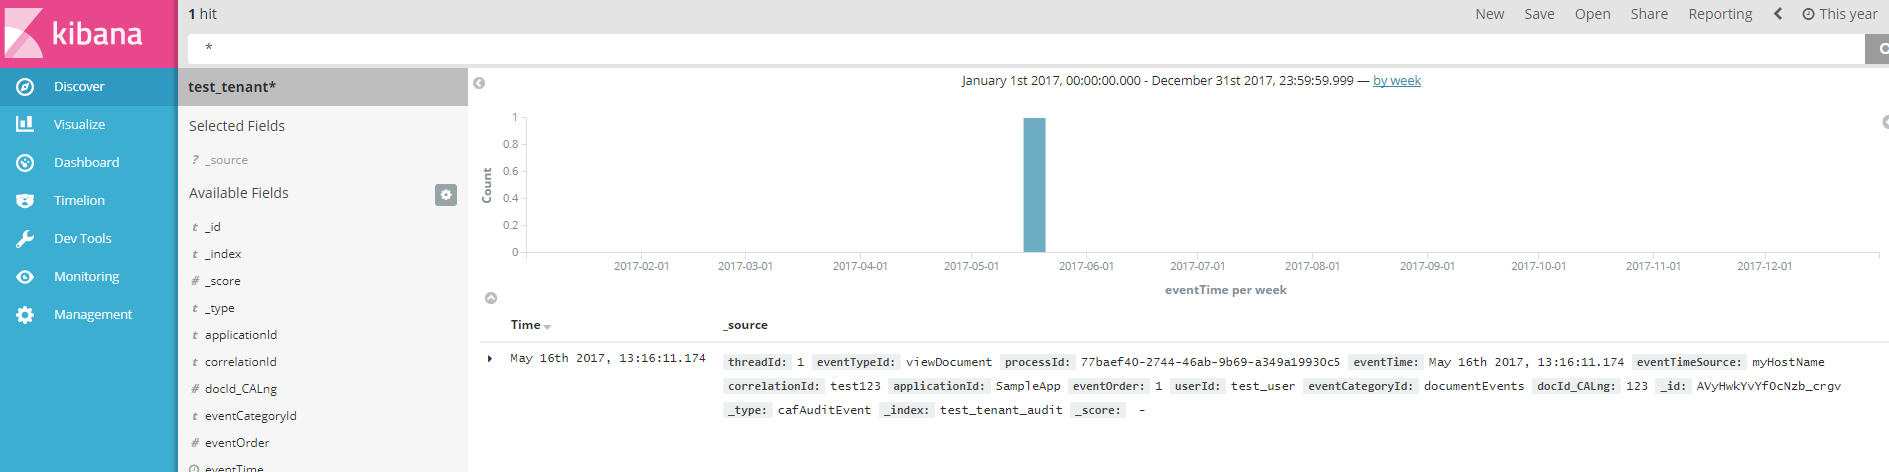
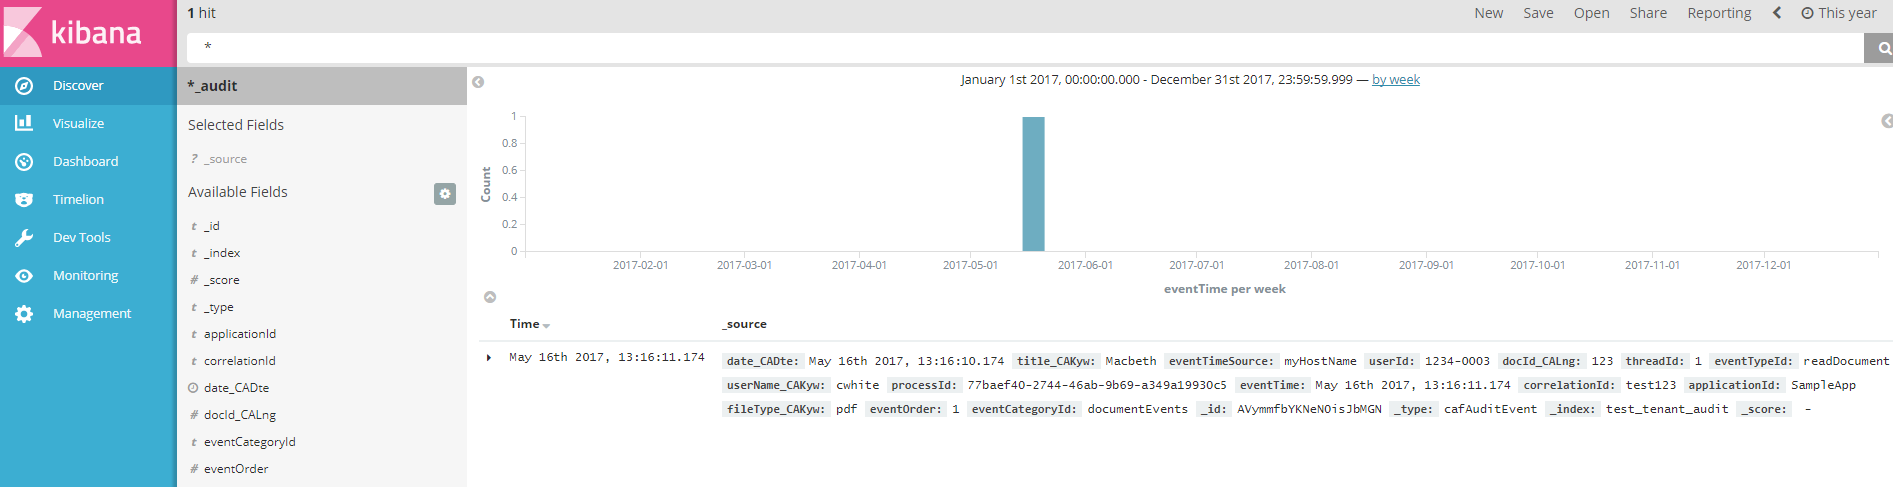
CAF-2686: A set of saved dashboards, saved searches and visualizations now provided to support the exploration and visualization of indexed audit data.

diff --git a/README.md b/README.md
@@ -139,16 +139,36 @@ First navigate to the folder where you have downloaded the files to and then run
 			  "eventOrder": 1,
 			  "eventTime": "2017-05-16T12:16:11.174Z",
 			  "eventTimeSource": "myHostName",
-			  "userId": "test_user",
+			  "userId": "1234-0003",
 			  "tenantId": "test_tenant",
 			  "correlationId": "test123",
-			  "eventTypeId": "viewDocument",
+			  "eventTypeId": "readDocument",
 			  "eventCategoryId": "documentEvents",
 			  "eventParams": [
 			  {
 			    "paramName": "docId",
 			    "paramType": "long",
 			    "paramValue": "123"
+			  },
+			  {
+			    "paramName": "title",
+			    "paramType": "string",
+			    "paramValue": "Macbeth"
+			  },
+			  {
+			    "paramName": "fileType",
+			    "paramType": "string",
+			    "paramValue": "pdf"
+			  },
+			  {
+			    "paramName": "date",
+			    "paramType": "date",
+			    "paramValue": "2017-05-16T12:16:10.174Z"
+			  },
+			  {
+			    "paramName": "userName",
+			    "paramType": "string",
+			    "paramValue": "cwhite"
 			  } ]
 			}
 
@@ -156,12 +176,12 @@ First navigate to the folder where you have downloaded the files to and then run
 
 6. Retrieve the audit event message  
     `curl -XGET '<DOCKER_HOST>:<ELASTICSEARCH_HTTP_PORT>/<index>/_search?q=userId:<userId>&pretty'`  
-    i.e. `curl -XGET 'localhost:9200/test_tenant_audit/_search?q=userId:test_user&pretty'`  
+    i.e. `curl -XGET 'localhost:9200/test_tenant_audit/_search?q=userId:1234-0003&pretty'`  
   
     Response:  
 
 		{
-		  "took" : 33,
+		  "took" : 265,
 		  "timed_out" : false,
 		  "_shards" : {
 		    "total" : 5,
@@ -175,20 +195,24 @@ First navigate to the folder where you have downloaded the files to and then run
 		      {
 		        "_index" : "test_tenant_audit",
 		        "_type" : "cafAuditEvent",
-		        "_id" : "AVwQeJ05uf04cpVnLlCF",
+		        "_id" : "AVymmfbYKNeN0isJbMGN",
 		        "_score" : 0.2876821,
 		        "_source" : {
+		          "date_CADte" : "2017-05-16T12:16:10.174Z",
+		          "title_CAKyw" : "Macbeth",
+		          "eventTimeSource" : "myHostName",
+		          "userId" : "1234-0003",
+		          "docId_CALng" : 123,
 		          "threadId" : 1,
-		          "eventTypeId" : "viewDocument",
+		          "eventTypeId" : "readDocument",
+		          "userName_CAKyw" : "cwhite",
 		          "processId" : "77baef40-2744-46ab-9b69-a349a19930c5",
 		          "eventTime" : "2017-05-16T12:16:11.174Z",
-		          "eventTimeSource" : "myHostName",
 		          "correlationId" : "test123",
 		          "applicationId" : "SampleApp",
+		          "fileType_CAKyw" : "pdf",
 		          "eventOrder" : 1,
-		          "userId" : "test_user",
-		          "eventCategoryId" : "documentEvents",
-		          "docId_CALng" : 123
+		          "eventCategoryId" : "documentEvents"
 		        }
 		      }
 		    ]
@@ -205,9 +229,12 @@ First navigate to the folder where you have downloaded the files to and then run
 	When you access Kibana, the `Discover` page loads by default with the default index pattern selected. The time filter is set to the last 15 minutes and the search query is set to match-all (\*).
 
 8. Connect Kibana with Elasticsearch and search for the audit event message  
-    Before you can start using Kibana, you need to tell it which Elasticsearch indices you want to explore. The first time you access Kibana, you are prompted to define an [index pattern](https://www.elastic.co/guide/en/kibana/5.3/connect-to-elasticsearch.html) that matches the name of one or more of your indices. When configuring the index pattern, set the name or pattern to `test_tenant*` and select `eventTime` for the Time-field name. Next browse to the `Discover` page, set the search query to match-all (i.e. `*`) and configure the time filter for `This Year`:
+    Before you can start using Kibana, you need to tell it which Elasticsearch indices you want to explore. The first time you access Kibana, you are prompted to define an [index pattern](https://www.elastic.co/guide/en/kibana/5.3/connect-to-elasticsearch.html) that matches the name of one or more of your indices. When configuring the index pattern, set the name or pattern to `*_audit` and select `eventTime` for the Time-field name. Next browse to the `Discover` page, set the search query to match-all (i.e. `*`) and configure the time filter for `This Year`:
 
 	![](./images/kibana-audit-search-results.png)
+
+### Kibana Dashboards, Saved Searches and Visualizations
+A set of [saved objects](https://github.com/CAFAudit/audit-service-deploy/kibana/saved-objects.json) including dashboards, saved searches and visualizations are included in the deployment directory that can be imported into Kibana in order to explore and visualize the audit data in several ways. For further information, see [here](https://cafaudit.github.io/audit-service/pages/en-us/Reporting).
 
 ### Override Files
 Docker Compose supports the concept of override files which can be used to modify the service definitions in the main Docker Compose files, or to add extra service definitions.
